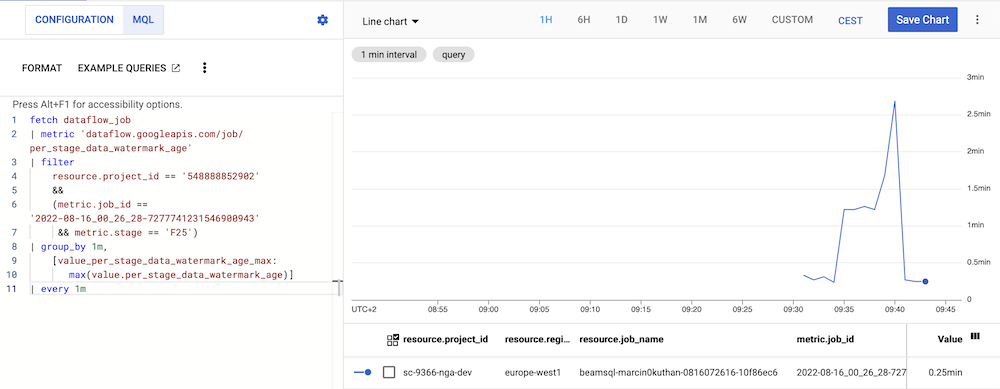
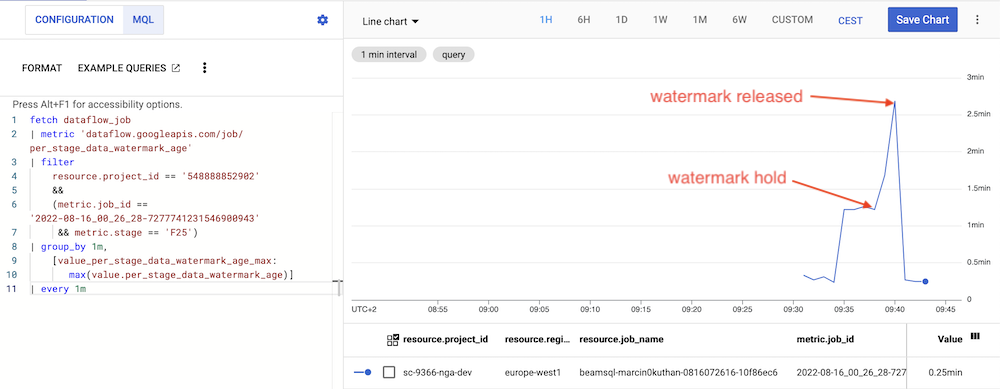
Beam SQL iter6

Changed region(s): [[0.651, 0.2159, 0.899, 0.2776], [0.651, 0.4319, 0.837, 0.4936], [0.837, 0.4936, 0.868, 0.5244]]

diff --git a/_posts/2022-09-14-beam-sql.md b/_posts/2022-09-14-beam-sql.md
@@ -13,7 +13,7 @@ you might often hear that stream processing is the future.
 It unlocks the full potential of data that is often unbounded in nature. 
 You don't need batch pipelines anymore, everything could be implemented in a streaming fashion. 
 There are plenty of modern and easy to use tools for stream processing. 
-Let's try with [Apache Beam](https://beam.apache.org/) :)
+Let's give it a try with [Apache Beam](https://beam.apache.org/) 😀
 
 In this blog post you will learn:
 
@@ -21,7 +21,7 @@ In this blog post you will learn:
   and deploy it on the Google Cloud Platform using [Dataflow](https://cloud.google.com/dataflow) runner.
 * The importance of the [watermark](https://cloud.google.com/dataflow/docs/concepts/streaming-pipelines#watermarks) to calculate the correct results within the minimal latency.
 * What is the impact of late data for the streaming pipelines?
-* A few undocumented Dataflow features :)
+* A few undocumented Dataflow features 😉
 
 ## Streaming Pipeline Overview
 
@@ -186,7 +186,7 @@ Check the table schema:
 ```
 
 Try to query the table. 
-You will get an error because table does not exist yet, it will be created just before first insert.
+You will get an error because table does not exist yet, it will be created just before the first insert.
 
 ```shell
 0: BeamSQL> SELECT COUNT(*) from RESULTS;
@@ -211,8 +211,8 @@ GROUP BY TUMBLE(event_timestamp, INTERVAL '5' SECOND)) s1
 LIMIT 5;
 ```
 
-Pay special attention for `LIMIT` clause. Direct runner collects results in the global window, and you have to specify non-default trigger to get any result.
-The 'LIMIT' clause is translated into data-driven trigger, to emit the results after 5 elements. 
+Pay special attention for the `LIMIT` clause. Direct runner collects results in the global window, and you have to specify non-default trigger to get any result.
+The `LIMIT` clause is translated into data-driven trigger, to emit the results after 5 elements. 
 {: .notice--info}
 
 ## SQL pipeline on Dataflow runner
@@ -277,7 +277,6 @@ $ gcloud dataflow sql query \
   --bigquery-dataset=marcin_atm22 \
   --bigquery-table=gcloud-results \
   --bigquery-write-disposition=write-append \
-  --dry-run \
 "
 CREATE EXTERNAL TABLE stream1 (
     event_timestamp TIMESTAMP, attributes MAP<VARCHAR, VARCHAR>, 
@@ -326,7 +325,7 @@ job:
   startTime: '2022-08-12T10:11:24.261616Z'
 ```
 
-Unfortunately I could manage deployment using `gcloud command`:
+Unfortunately I could not manage deployment using `gcloud command`.
 After a few minutes I've got the following Dataflow job error on StackDriver console:
 
 ```
@@ -407,7 +406,7 @@ if __name__ == '__main__':
 ```
 
 Do you remember `timestampAttributeKey` property for Pubsub external table definition? 
-Generator sets `ts` attribute for each published message based on event time.
+Generator sets `ts` attribute for each published message based on event time (line 20).
 Using this attribute Dataflow runner is able to track data freshness in the stream!
 {: .notice--info}
 
@@ -423,9 +422,9 @@ $ python generator.py --topic projects/sc-9366-nga-dev/topics/marcin-atm22-strea
 
 ```
 $ python generator.py --topic projects/sc-9366-nga-dev/topics/marcin-atm22-stream-2
-{'ts': '2022-08-07T10:29:28+00:00', 'val': 0.53}
-{'ts': '2022-08-07T10:29:29+00:00', 'val': 0.76}
-{'ts': '2022-08-07T10:29:30+00:00', 'val': 0.94}
+{'ts': '2022-08-07T10:28:35+00:00', 'val': 0.53}
+{'ts': '2022-08-07T10:28:36+00:00', 'val': 0.76}
+{'ts': '2022-08-07T10:28:37+00:00', 'val': 0.94}
 (...)
 ```
 
@@ -557,7 +556,8 @@ Finally, examine the results generated by the job by querying BigQuery table:
 
 * Dataflow recognized late data and hold watermark for one of the input stream.
 * The results are correctly calculated based on 15 samples from all three sensors. 
-* Moreover, the oldest watermark is propagated downstream through the pipeline and the overall latency increases. 
+* Moreover, the oldest watermark is propagated downstream through the pipeline and the overall latency increases.
+* The most late source drives the latency of the whole pipeline!
 
 ## Back pressure and tracking subscriptions
 
@@ -572,7 +572,7 @@ For our SQL pipeline there are four subscriptions instead of two!
 
 ![Dataflow tracking subscriptions](/assets/images/beam_sql_tracking_subscription.png)
 
-Tracking subscriptions double Pubsub message delivery costs.
+Unfortunately, tracking subscriptions double Pubsub message delivery costs.
 Why we have to pay for the whole message delivery if timestamp attribute is enough for tracking? I don't know.
 {: .notice--info}
 
@@ -589,6 +589,7 @@ Stop all generators for `stream-2` topic, and watch watermark metric for step `F
 3. There is no data loss, all sensor readings from the period when the watermark was hold will be calculated perfectly.
 
 If there is no traffic on the Pubsub topic for ~3 minutes, Dataflow assumes that the stream is fully up-to-date and releases the watermark.
+You could not change this behaviour.
 {: .notice--info}
 
 You should observe similar results for the moment when the watermark is released:
@@ -612,41 +613,50 @@ You should observe similar results for the moment when the watermark is released
 
 * At `07:28:09` the results for the window `[07:36:45, 07:36:50)` was calculated based on data from all three sensors.
 * There is a processing time gap to the `07:40:07` when Dataflow released the watermark.
-  The total delay is about 3 minutes, 192 seconds to be precise). 
+  The total delay is about 3 minutes, 192 seconds to be precise. 
 * From `07:40:11` Dataflow has back-filled the gap with data collected from `stream-1` and `stream-2` when the watermark was hold.
 * From `07:40:14` there are only 5 samples from `stream-1`, there is no data in `stream-2`.
 * Do not expect any order when Dataflow back-fills the results.
   The results for window `[07:37:45, 07:37:50)` was produced before results for window `[07:37:10, 07:37:15)`.
 
-## Complete results from the experiment (not finished)
+## Complete results from the experiment
 
 You could be a little lost right now, the reasoning about the streaming pipelines is a demanding task :)
 Let me show data visualization for the whole experiment.
+On the first chart there is a pipeline delay, the difference between results event time and the processing time.
+On the second chart you can see how many samples were used for calculation. 
 
 ![Dataflow experiment timeline](/assets/images/beam_sql_timeline_1.png)
 
-1. **Phase 1** initial back-fill
-    * When Dataflow job starts, it creates Pubsub subscriptions at the very beginning
-    * When all Dataflow components are ready, the job quickly consumes all events from the subscriptions
-    * The backlog was consumed almost immediately, try to figure out why the delay is decreasing steadily :) 
-2. **Phase 2** both streams are up-to-date
-    * The pipeline latency is almost constant
-    * Each window is calculated from 10 samples (5 samples per sensor)
-    * But sometimes one sample is missing, I'm almost 100% sure that the generator is not perfect, simple sleep() call between samples
-3. **Phase 3** second stream contains late data from the third "phantom" sensor
-    * There is additional latency in the pipeline
-    * The latency is super constant, it comes from the input data lateness, not from the pipeline technical fluctuations
-    * Each window is calculated from 15 samples (5 samples per sensor)
-4. **Phase 4** missing `stream-2` back-fill - part 1
-    * TODO
-5. **Phase 5** missing `stream-2` back-fill - part 2
-    * TODO
-6. **Phase 6** single stream
-    * TODO
+1. **Phase 1** initial back-fill:
+    * When Dataflow job starts, it creates Pubsub subscriptions at the very beginning.
+    * When all Dataflow components are ready, the job quickly consumes all events from the subscriptions.
+    * The backlog was consumed almost immediately.
+      Try to figure out why the delay is decreasing steadily :P 
+2. **Phase 2** both streams are up-to-date:
+    * The pipeline latency is almost constant.
+    * Each window is calculated from 10 samples (5 samples per sensor).
+    * But sometimes one sample is missing. 
+      Dataflow correctness is 100% but the generator is not perfect.
+      Simple `sleep(1)` call between samples is not enough to generate exactly one event per second.
+3. **Phase 3** second stream contains late data from the third "phantom" sensor:
+    * There is additional latency in the pipeline.
+    * The latency is super constant, it comes from the input data lateness, not from the pipeline technical fluctuations.
+    * Each window is calculated from 15 samples (5 samples per sensor).
+4. **Phase 4** missing `stream-2` back-fill - part 1:
+    * Due to delay of events from third sensor, there is the backlog of events from the second sensor.
+    * For this phase the results are calculated from 10 samples (5 samples from the first sensor and 5 samples from the second sensor).
+5. **Phase 5** missing `stream-2` back-fill - part 2:
+    * There are only events from the first sensor to consume.
+6. **Phase 6** single stream:
+    * Steady state with events from the first sensor only.
 
-Timeline in processing time domain:
+Timeline in processing time domain is also interesting and shows when results are produced:
 
 ![Dataflow experiment timeline](/assets/images/beam_sql_timeline_2.png)
+
+* Initial back-fill finished immediately, all records are produced in the same moment.
+* Second back-fill happened when Dataflow released the watermark but this time the records were saved in two similar batches.
 
 ## Cleaning up
 
@@ -668,7 +678,7 @@ But Beam SQL still has many limitations, you can not specify allowed lateness or
 The documentation is also far from complete and Beam SQL still looks like an experimental SDK.
 * Apache Beam SQL shell within Direct runner allows you to prototype the pipeline locally.
 But for all queries you have to define a query limit to trigger computation materialization when I would expect the unbounded stream of results printed on the console.
-Even for the tiny throughput and powerful local machine do not expect that Direct runner will be able to run the complete pipeline in the finite time.
+Even for the tiny throughput do not expect that Direct runner will be able to run the complete pipeline in the finite time.
 * You can deploy the pipeline on Dataflow runner directly from the Beam SQL shell.
 Convenient method for testing but not for production deployment.
 I could not manage deployment using [gcloud dataflow sql query](https://cloud.google.com/sdk/gcloud/reference/dataflow/sql/query) command or 
